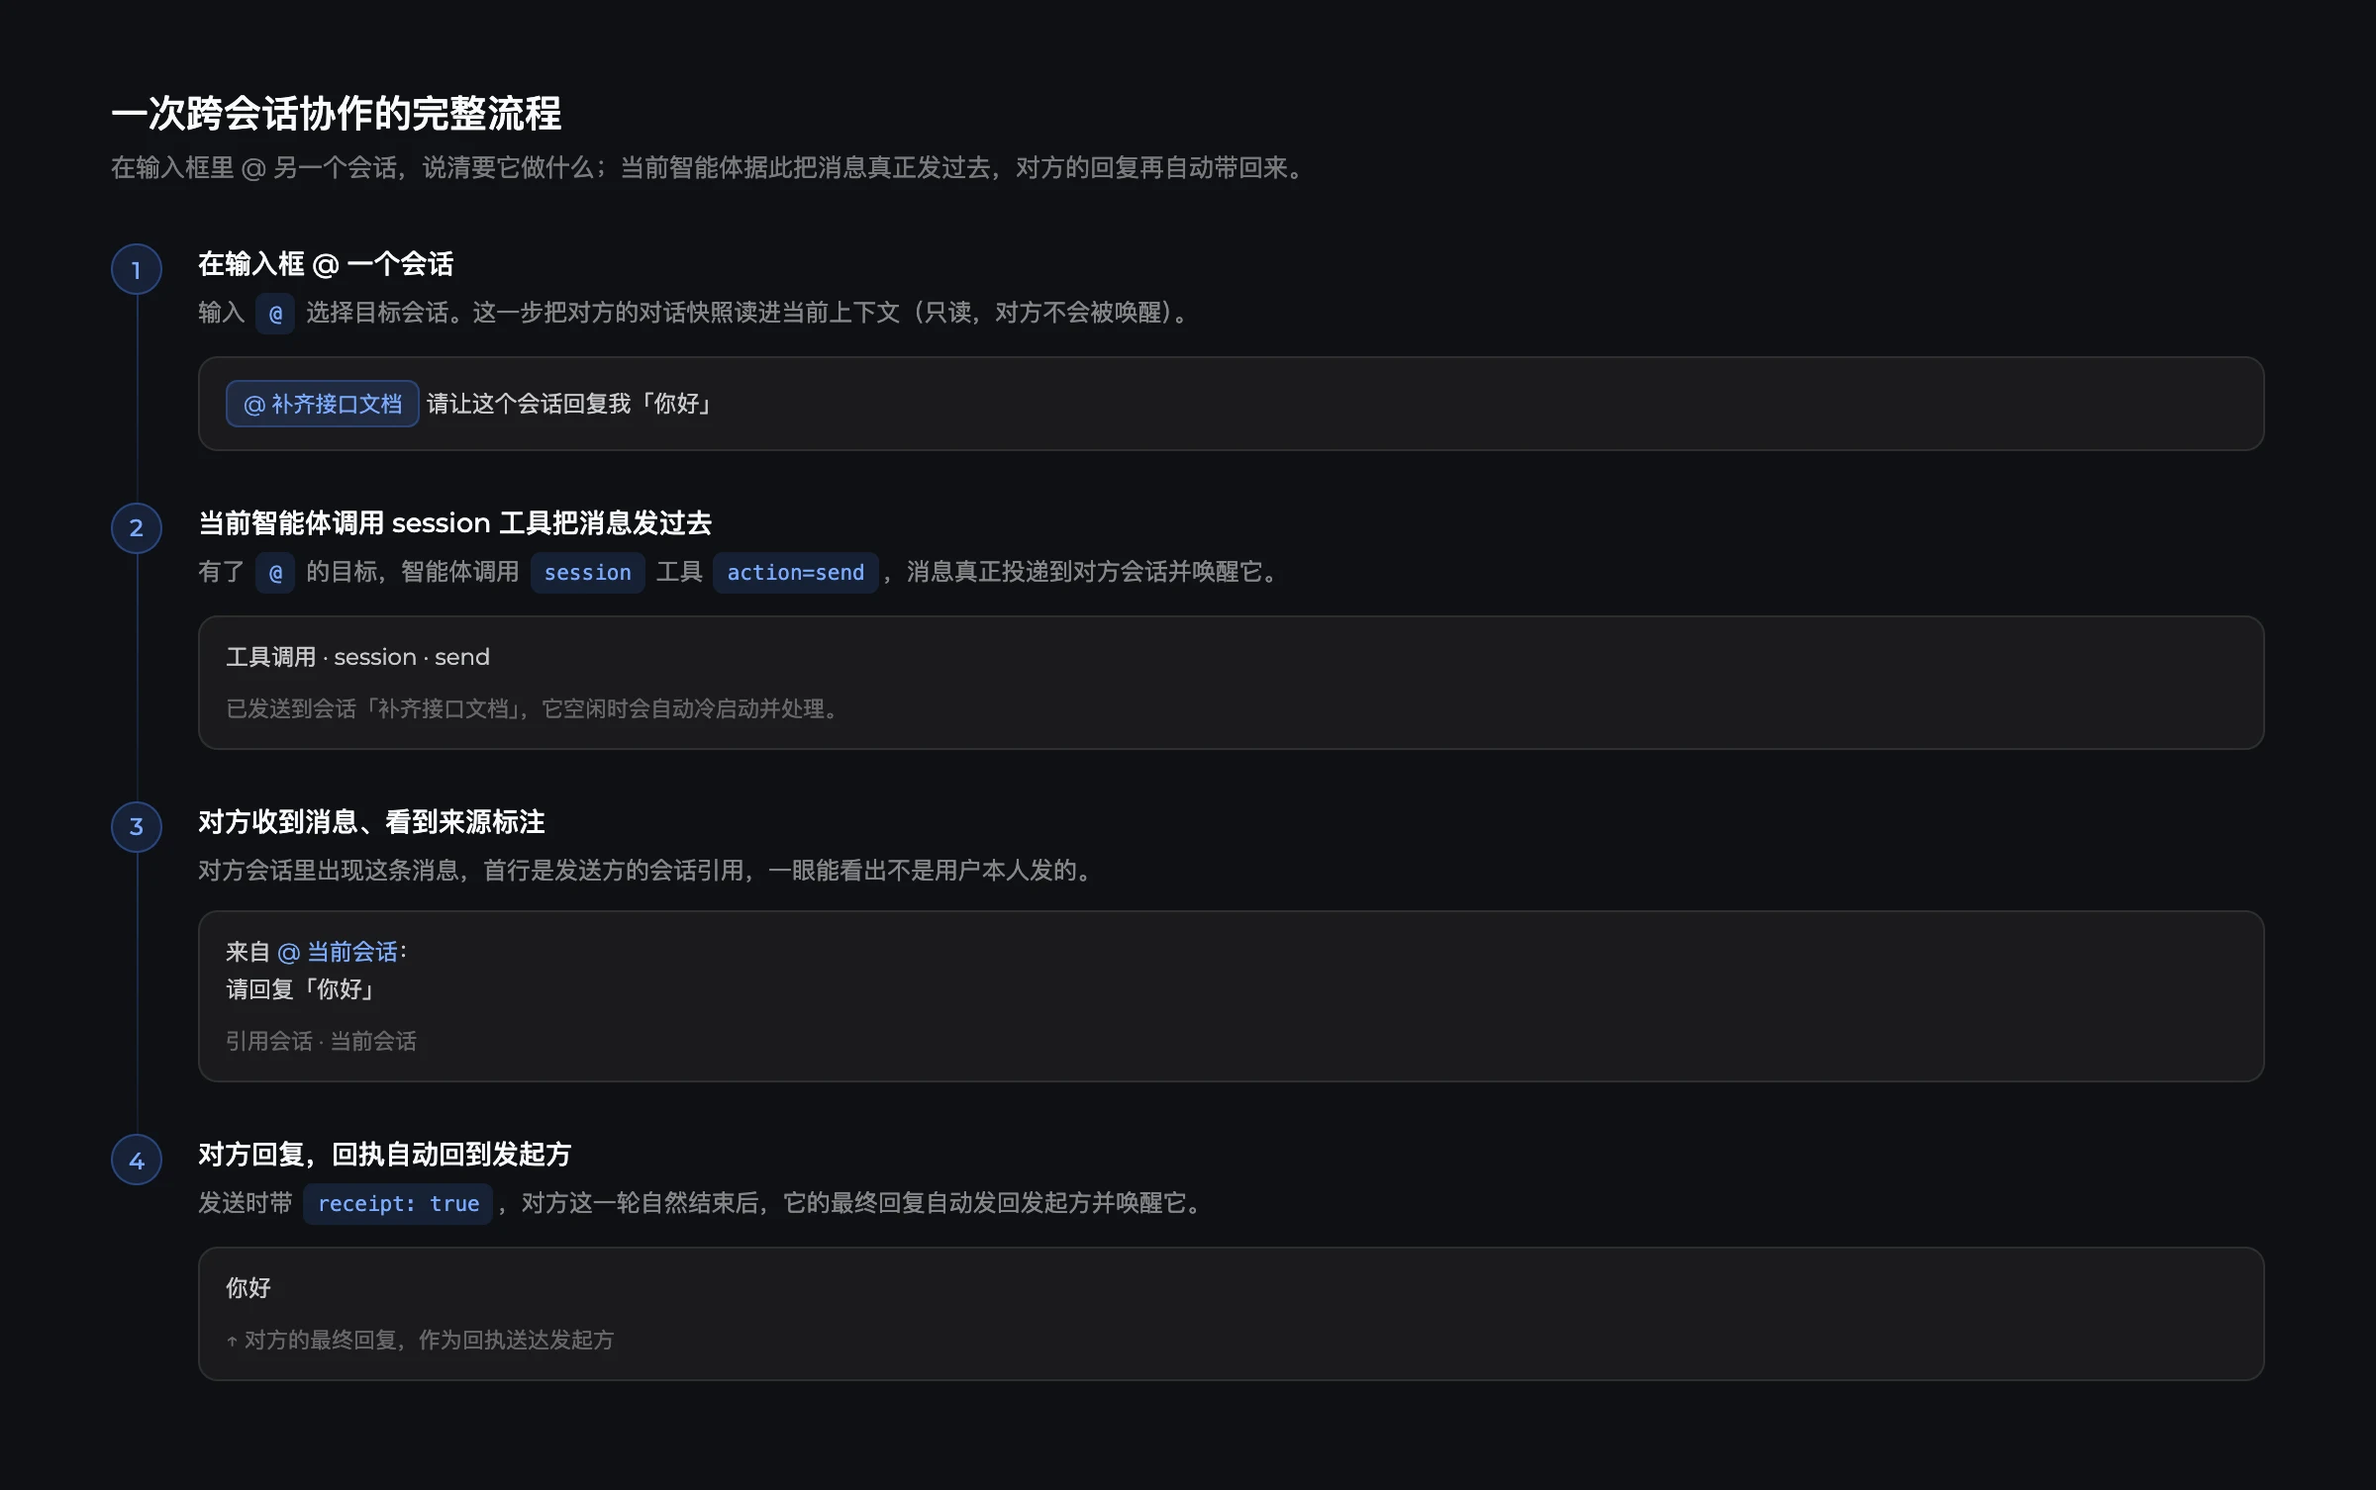
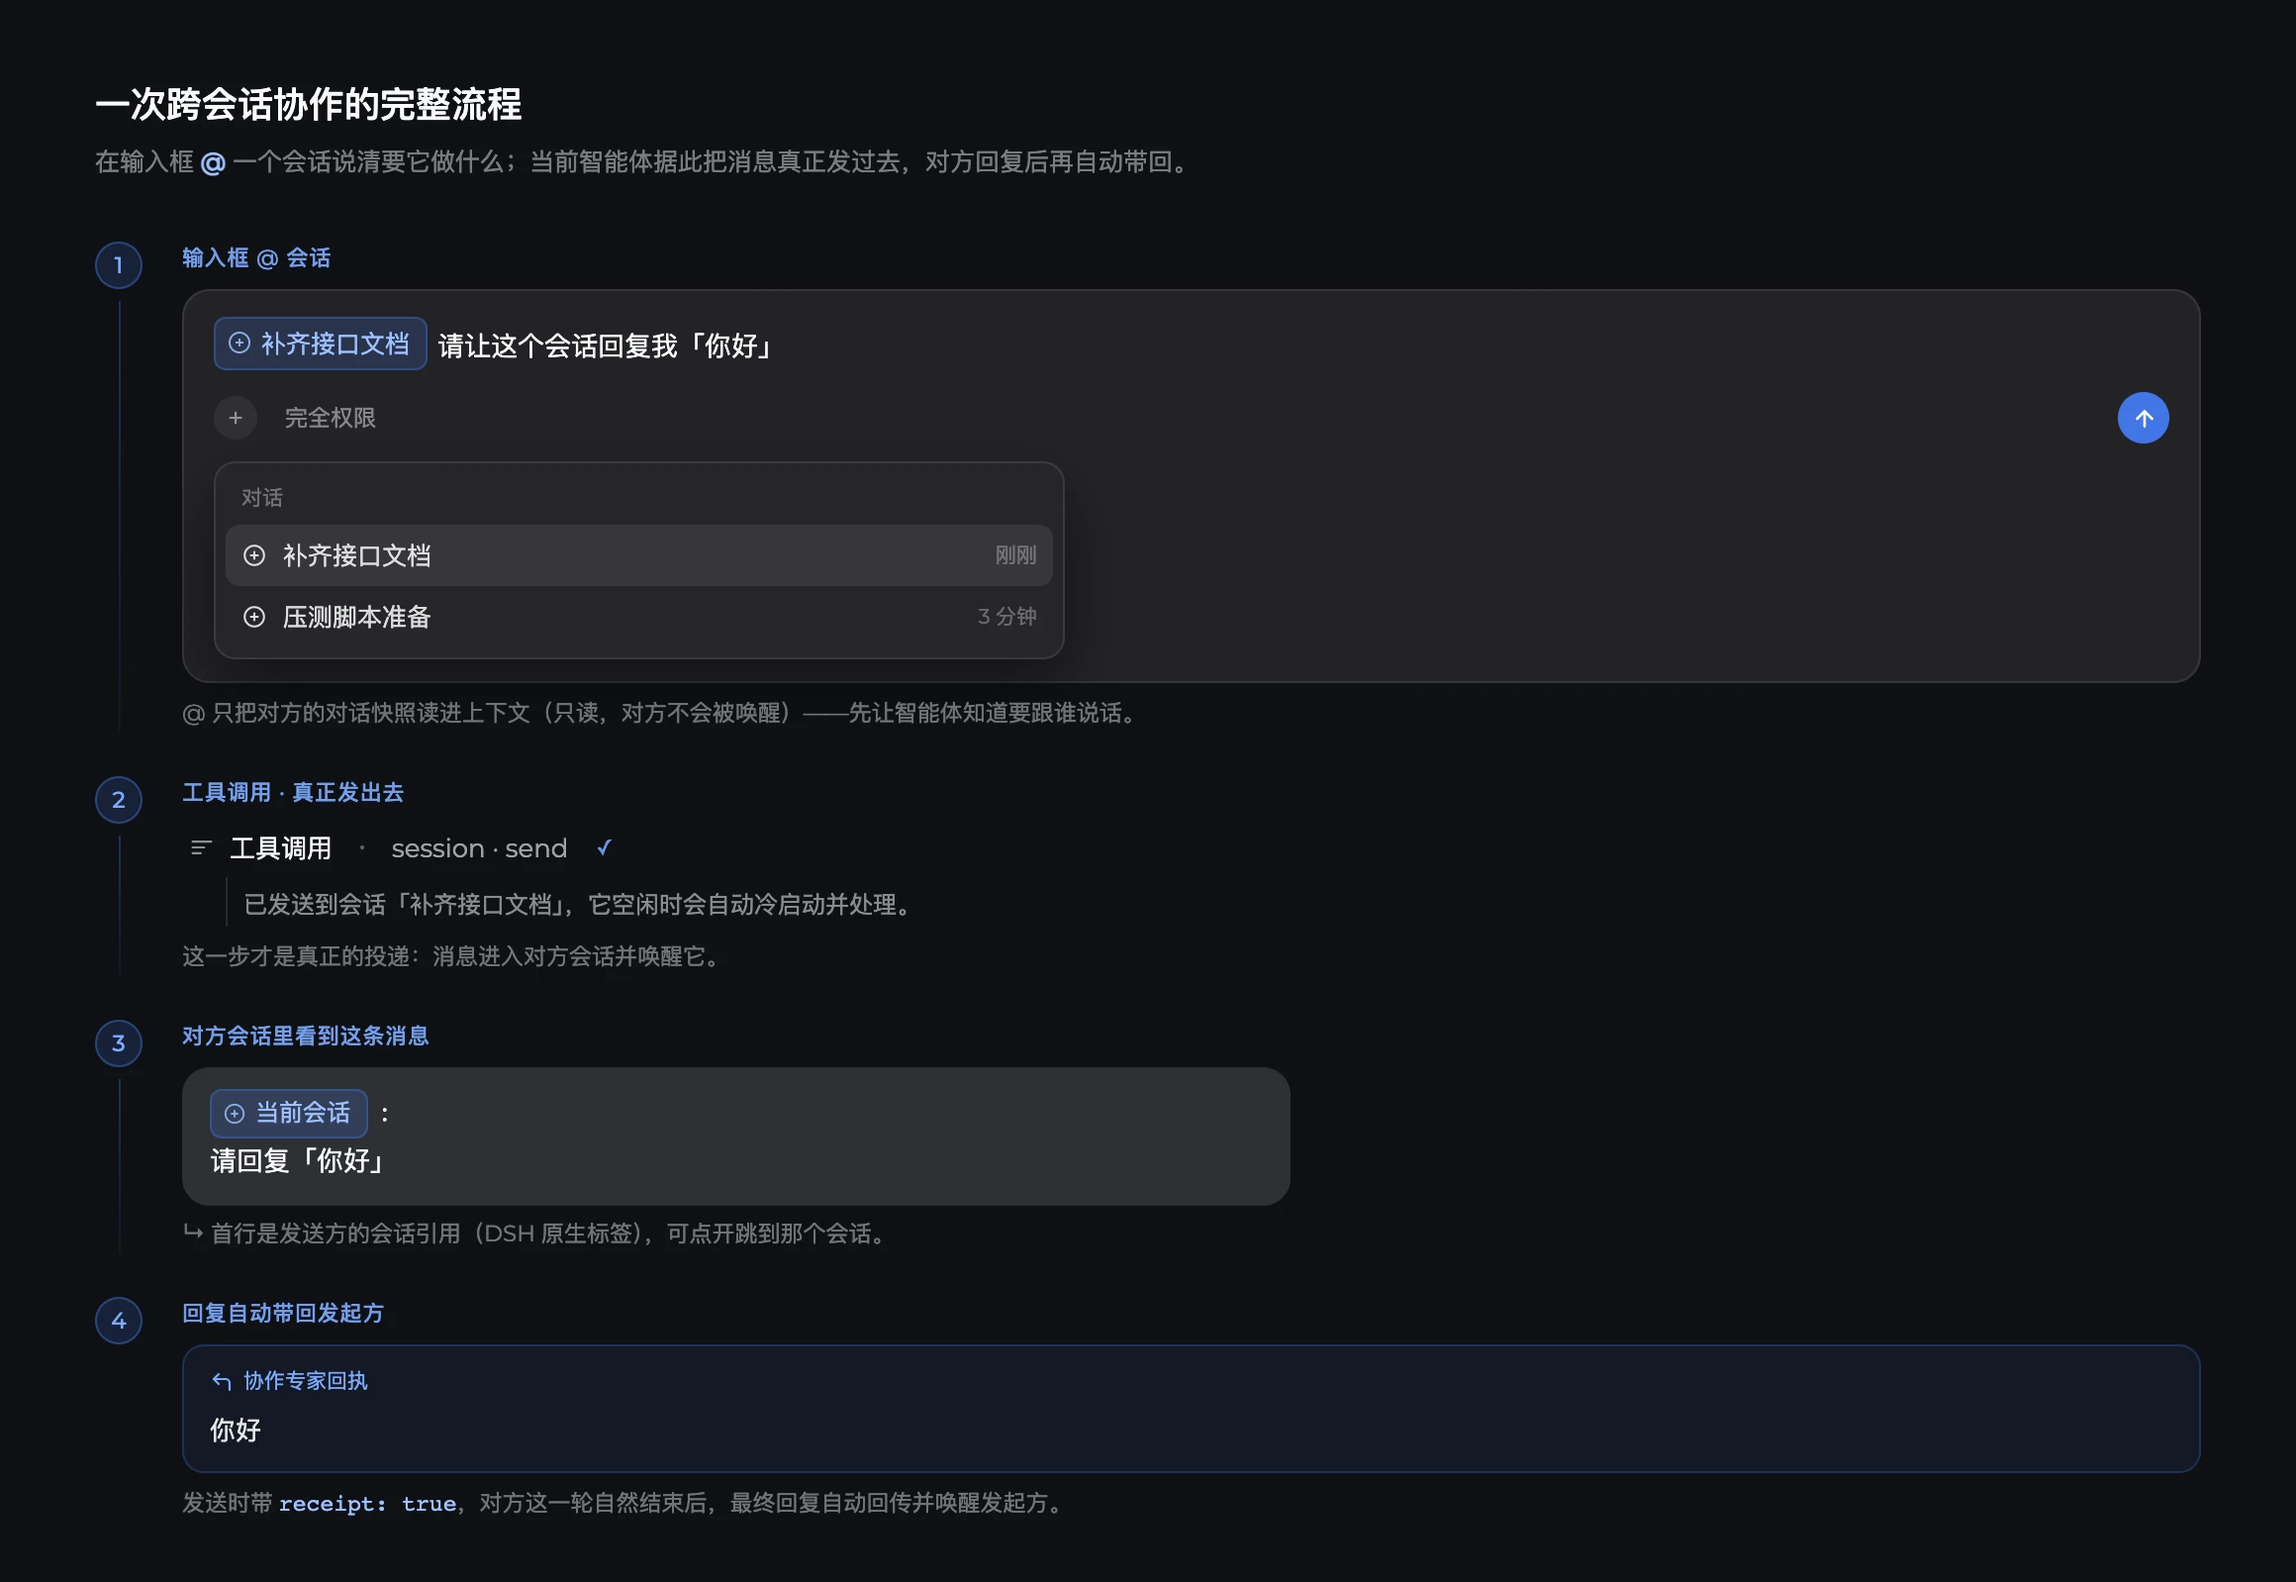
流程图改用真实组件样式复刻（输入框/工具调用行/消息气泡/回执卡）

diff --git a/docs/screenshots/at-flow.html b/docs/screenshots/at-flow.html
@@ -1,52 +1,101 @@
 <!doctype html>
 <html><head><meta charset="utf-8">
 <style>
-  @font-face { font-family:'Montserrat'; src:url('file:///Users/apple/Documents/github/agnx/packages/dsh/client/ui-theme/src/styles/montserrat-regular.woff2') format('woff2'); font-weight:400; }
-  @font-face { font-family:'Montserrat'; src:url('file:///Users/apple/Documents/github/agnx/packages/dsh/client/ui-theme/src/styles/montserrat-medium.woff2') format('woff2'); font-weight:500; }
+  @font-face{font-family:'Montserrat';src:url('file:///Users/apple/Documents/github/agnx/packages/dsh/client/ui-theme/src/styles/montserrat-regular.woff2') format('woff2');font-weight:400}
+  @font-face{font-family:'Montserrat';src:url('file:///Users/apple/Documents/github/agnx/packages/dsh/client/ui-theme/src/styles/montserrat-medium.woff2') format('woff2');font-weight:500}
   *{margin:0;padding:0;box-sizing:border-box}
-  body{width:1200px;background:#0F1115;font-family:'Montserrat',-apple-system,'PingFang SC',sans-serif;padding:44px 56px 52px}
-  h2{font-size:19px;font-weight:500;color:#F9FAFB;margin-bottom:6px}
-  .lead{font-size:12.5px;color:rgba(249,250,251,.45);margin-bottom:30px}
-  .steps{display:flex;flex-direction:column;gap:0}
-  .step{display:flex;gap:18px;position:relative;padding-bottom:26px}
+  body{width:1160px;background:#0F1115;font-family:'Montserrat',-apple-system,'PingFang SC',sans-serif;padding:40px 48px 44px;color:#F9FAFB}
+  .head h2{font-size:18px;font-weight:500;margin-bottom:7px}
+  .head p{font-size:12.5px;color:rgba(249,250,251,.46);line-height:1.6;max-width:900px}
+  .stage{margin-top:30px;position:relative}
+  .step{display:flex;gap:20px;padding-bottom:22px;position:relative}
   .step:last-child{padding-bottom:0}
-  .num{flex:none;width:26px;height:26px;border-radius:50%;background:rgba(65,118,230,.16);border:1px solid rgba(65,118,230,.42);color:#7AAAFF;font-size:12px;font-weight:500;display:flex;align-items:center;justify-content:center;z-index:2}
-  .step:not(:last-child):before{content:"";position:absolute;left:12.5px;top:26px;bottom:0;width:1px;background:linear-gradient(rgba(65,118,230,.34),rgba(65,118,230,.10))}
-  .body{flex:1;padding-top:1px}
-  .stitle{font-size:13.5px;color:#F9FAFB;font-weight:500;margin-bottom:5px}
-  .sdesc{font-size:12px;color:rgba(249,250,251,.50);line-height:1.6}
-  .chip{display:inline-block;padding:2px 7px;border-radius:5px;background:rgba(65,118,230,.15);color:#7AAAFF;font-size:10.5px;font-family:monospace;margin:0 2px}
-  .mock{margin-top:11px;background:rgba(27,27,28,.92);border:1px solid rgba(255,255,255,.09);border-radius:10px;padding:11px 13px;font-size:11.5px;color:rgba(249,250,251,.78);line-height:1.65}
-  .mock .at{color:#7AAAFF}
-  .mock .tag{display:inline-flex;align-items:center;gap:4px;padding:2px 8px;border-radius:6px;background:rgba(65,118,230,.18);border:1px solid rgba(65,118,230,.34);color:#7AAAFF;font-size:11px}
-  .arrowline{color:rgba(249,250,251,.34);font-size:11px;margin-top:7px}
+  .rail{flex:none;width:24px;display:flex;flex-direction:column;align-items:center}
+  .n{width:24px;height:24px;border-radius:50%;background:rgba(65,118,230,.16);border:1px solid rgba(65,118,230,.40);color:#7AAAFF;font-size:11.5px;font-weight:500;display:flex;align-items:center;justify-content:center}
+  .step:not(:last-child) .rail:after{content:"";flex:1;width:1px;margin-top:6px;background:linear-gradient(rgba(65,118,230,.32),rgba(65,118,230,.06))}
+  .col{flex:1;min-width:0}
+  .cap{font-size:11px;color:rgba(122,170,255,.92);letter-spacing:.4px;text-transform:uppercase;font-weight:500;margin-bottom:8px}
+  .note{font-size:11.5px;color:rgba(249,250,251,.42);margin-top:7px;line-height:1.55}
+
+  /* ===== 真实组件复刻 ===== */
+  /* 输入框 */
+  .composer{background:#232326;border:1px solid rgba(255,255,255,.085);border-radius:14px;padding:13px 15px 11px}
+  .composer .line{font-size:13.5px;line-height:1.75;color:#F9FAFB}
+  .mention{display:inline-flex;align-items:center;gap:5px;padding:1.5px 8px 1.5px 6px;border-radius:6px;background:rgba(65,118,230,.20);border:1px solid rgba(65,118,230,.36);color:#9CC0FF;font-size:12.5px;margin-right:5px;vertical-align:baseline}
+  .mention svg{opacity:.85}
+  .composer .bar{display:flex;align-items:center;justify-content:space-between;margin-top:11px}
+  .composer .left{display:flex;align-items:center;gap:14px;color:rgba(249,250,251,.46);font-size:11.5px}
+  .plus{width:22px;height:22px;border-radius:50%;background:rgba(255,255,255,.055);display:flex;align-items:center;justify-content:center;color:rgba(249,250,251,.5);font-size:14px}
+  .send{width:26px;height:26px;border-radius:50%;background:#4176E6;display:flex;align-items:center;justify-content:center}
+  /* @ 选择器 */
+  .picker{margin-top:9px;background:#26262A;border:1px solid rgba(255,255,255,.09);border-radius:11px;padding:5px;width:430px;box-shadow:0 14px 34px rgba(0,0,0,.45)}
+  .picker .plabel{font-size:10.5px;color:rgba(249,250,251,.36);padding:5px 8px 6px}
+  .pitem{display:flex;align-items:center;gap:8px;padding:7px 8px;border-radius:7px;font-size:12.5px;color:rgba(249,250,251,.86)}
+  .pitem.on{background:rgba(255,255,255,.075)}
+  .pitem .m{margin-left:auto;font-size:10.5px;color:rgba(249,250,251,.32)}
+  /* 工具调用行（复刻 ToolRow：16 leading / gap6 / title 13 / 2px dot / summary） */
+  .toolrow{display:inline-flex;align-items:center;gap:6px;height:24px;font-size:13px;color:#F9FAFB;padding:0 2px;border-radius:6px;max-width:100%}
+  .toolrow .lead{width:16px;height:16px;display:flex;align-items:center;justify-content:center;color:rgba(249,250,251,.55)}
+  .toolrow .t{font-weight:400}
+  .toolrow .sep{width:2px;height:2px;border-radius:1px;background:rgba(249,250,251,.34);margin:0 8px}
+  .toolrow .sum{color:rgba(249,250,251,.62);overflow:hidden;text-overflow:ellipsis;white-space:nowrap}
+  .toolrow .state{font-size:11px;color:rgba(122,170,255,.85);margin-left:8px}
+  .toolbody{margin:3px 0 0 22px;padding-left:8px;border-left:.5px solid rgba(255,255,255,.10);max-width:640px}
+  .resultline{font-size:12px;color:rgba(249,250,251,.52);padding:4px 0 2px 0;line-height:1.6}
+  /* 用户消息气泡（右对齐） */
+  .bubble{margin-left:0;background:#2E3035;border-radius:14px;padding:11px 14px;font-size:13.5px;line-height:1.7;max-width:560px;color:#F9FAFB}
+  .bubble.bot{background:transparent;padding:0;color:rgba(249,250,251,.88)}
+  .who{font-size:10.5px;color:rgba(249,250,251,.34);margin-bottom:6px}
+  /* 回执 */
+  .receipt{border:1px solid rgba(65,118,230,.26);background:rgba(65,118,230,.075);border-radius:11px;padding:10px 13px}
+  .receipt .rtag{font-size:10.5px;color:#7AAAFF;margin-bottom:6px;display:flex;align-items:center;gap:5px}
+  .receipt .rbody{font-size:13px;color:rgba(249,250,251,.92);line-height:1.7}
 </style></head><body>
-  <h2>一次跨会话协作的完整流程</h2>
-  <div class="lead">在输入框里 @ 另一个会话，说清要它做什么；当前智能体据此把消息真正发过去，对方的回复再自动带回来。</div>
-  <div class="steps">
+  <div class="head">
+    <h2>一次跨会话协作的完整流程</h2>
+    <p>在输入框 <b style="color:#9CC0FF">@</b> 一个会话说清要它做什么；当前智能体据此把消息真正发过去，对方回复后再自动带回。</p>
+  </div>
+  <div class="stage">
 
-    <div class="step"><div class="num">1</div><div class="body">
-      <div class="stitle">在输入框 @ 一个会话</div>
-      <div class="sdesc">输入 <span class="chip">@</span> 选择目标会话。这一步把对方的对话快照读进当前上下文（只读，对方不会被唤醒）。</div>
-      <div class="mock"><span class="tag">@ 补齐接口文档</span> 请让这个会话回复我「你好」</div>
+    <div class="step"><div class="rail"><div class="n">1</div></div><div class="col">
+      <div class="cap">输入框 @ 会话</div>
+      <div class="composer">
+        <div class="line"><span class="mention"><svg width="12" height="12" viewBox="0 0 24 24" fill="none" stroke="currentColor" stroke-width="2"><circle cx="12" cy="12" r="10"/><path d="M12 8v8M8 12h8"/></svg>补齐接口文档</span>请让这个会话回复我「你好」</div>
+        <div class="bar"><div class="left"><div class="plus">+</div><span>完全权限</span></div><div class="send"><svg width="13" height="13" viewBox="0 0 24 24" fill="none" stroke="#fff" stroke-width="2.4" stroke-linecap="round" stroke-linejoin="round"><path d="M12 19V5M5 12l7-7 7 7"/></svg></div></div>
+        <div class="picker"><div class="plabel">对话</div>
+          <div class="pitem on"><svg width="13" height="13" viewBox="0 0 24 24" fill="none" stroke="currentColor" stroke-width="1.9"><circle cx="12" cy="12" r="9"/><path d="M12 8v8M8 12h8"/></svg>补齐接口文档<span class="m">刚刚</span></div>
+          <div class="pitem"><svg width="13" height="13" viewBox="0 0 24 24" fill="none" stroke="currentColor" stroke-width="1.9"><circle cx="12" cy="12" r="9"/><path d="M12 8v8M8 12h8"/></svg>压测脚本准备<span class="m">3 分钟</span></div>
+        </div>
+      </div>
+      <div class="note">@ 只把对方的对话快照读进上下文（只读，对方不会被唤醒）——先让智能体知道要跟谁说话。</div>
     </div></div>
 
-    <div class="step"><div class="num">2</div><div class="body">
-      <div class="stitle">当前智能体调用 session 工具把消息发过去</div>
-      <div class="sdesc">有了 <span class="chip">@</span> 的目标，智能体调用 <span class="chip">session</span> 工具 <span class="chip">action=send</span>，消息真正投递到对方会话并唤醒它。</div>
-      <div class="mock">工具调用 · session · send<div class="arrowline">已发送到会话「补齐接口文档」，它空闲时会自动冷启动并处理。</div></div>
+    <div class="step"><div class="rail"><div class="n">2</div></div><div class="col">
+      <div class="cap">工具调用 · 真正发出去</div>
+      <div class="toolrow">
+        <span class="lead"><svg width="14" height="14" viewBox="0 0 24 24" fill="none" stroke="currentColor" stroke-width="1.9" stroke-linecap="round"><path d="M4 7h16M4 12h10M4 17h7"/></svg></span>
+        <span class="t">工具调用</span><span class="sep"></span>
+        <span class="sum">session · send</span>
+        <span class="state">✓</span>
+      </div>
+      <div class="toolbody"><div class="resultline">已发送到会话「补齐接口文档」，它空闲时会自动冷启动并处理。</div></div>
+      <div class="note">这一步才是真正的投递：消息进入对方会话并唤醒它。</div>
     </div></div>
 
-    <div class="step"><div class="num">3</div><div class="body">
-      <div class="stitle">对方收到消息、看到来源标注</div>
-      <div class="sdesc">对方会话里出现这条消息，首行是发送方的会话引用，一眼能看出不是用户本人发的。</div>
-      <div class="mock">来自 <span class="at">@ 当前会话</span>：<br>请回复「你好」<div class="arrowline">引用会话 · 当前会话</div></div>
+    <div class="step"><div class="rail"><div class="n">3</div></div><div class="col">
+      <div class="cap">对方会话里看到这条消息</div>
+      <div class="bubble"><span class="mention" style="font-size:12px"><svg width="11" height="11" viewBox="0 0 24 24" fill="none" stroke="currentColor" stroke-width="2"><circle cx="12" cy="12" r="10"/><path d="M12 8v8M8 12h8"/></svg>当前会话</span>：<br>请回复「你好」</div>
+      <div class="note" style="margin-top:6px">↳ 首行是发送方的会话引用（DSH 原生标签），可点开跳到那个会话。</div>
+      
     </div></div>
 
-    <div class="step"><div class="num">4</div><div class="body">
-      <div class="stitle">对方回复，回执自动回到发起方</div>
-      <div class="sdesc">发送时带 <span class="chip">receipt: true</span>，对方这一轮自然结束后，它的最终回复自动发回发起方并唤醒它。</div>
-      <div class="mock">你好<div class="arrowline">↑ 对方的最终回复，作为回执送达发起方</div></div>
+    <div class="step"><div class="rail"><div class="n">4</div></div><div class="col">
+      <div class="cap">回复自动带回发起方</div>
+      <div class="receipt">
+        <div class="rtag"><svg width="12" height="12" viewBox="0 0 24 24" fill="none" stroke="currentColor" stroke-width="2.2" stroke-linecap="round" stroke-linejoin="round"><path d="M9 14 4 9l5-5"/><path d="M20 20v-7a4 4 0 0 0-4-4H4"/></svg>协作专家回执</div>
+        <div class="rbody">你好</div>
+      </div>
+      <div class="note">发送时带 <code style="color:#9CC0FF">receipt: true</code>，对方这一轮自然结束后，最终回复自动回传并唤醒发起方。</div>
     </div></div>
 
   </div>
